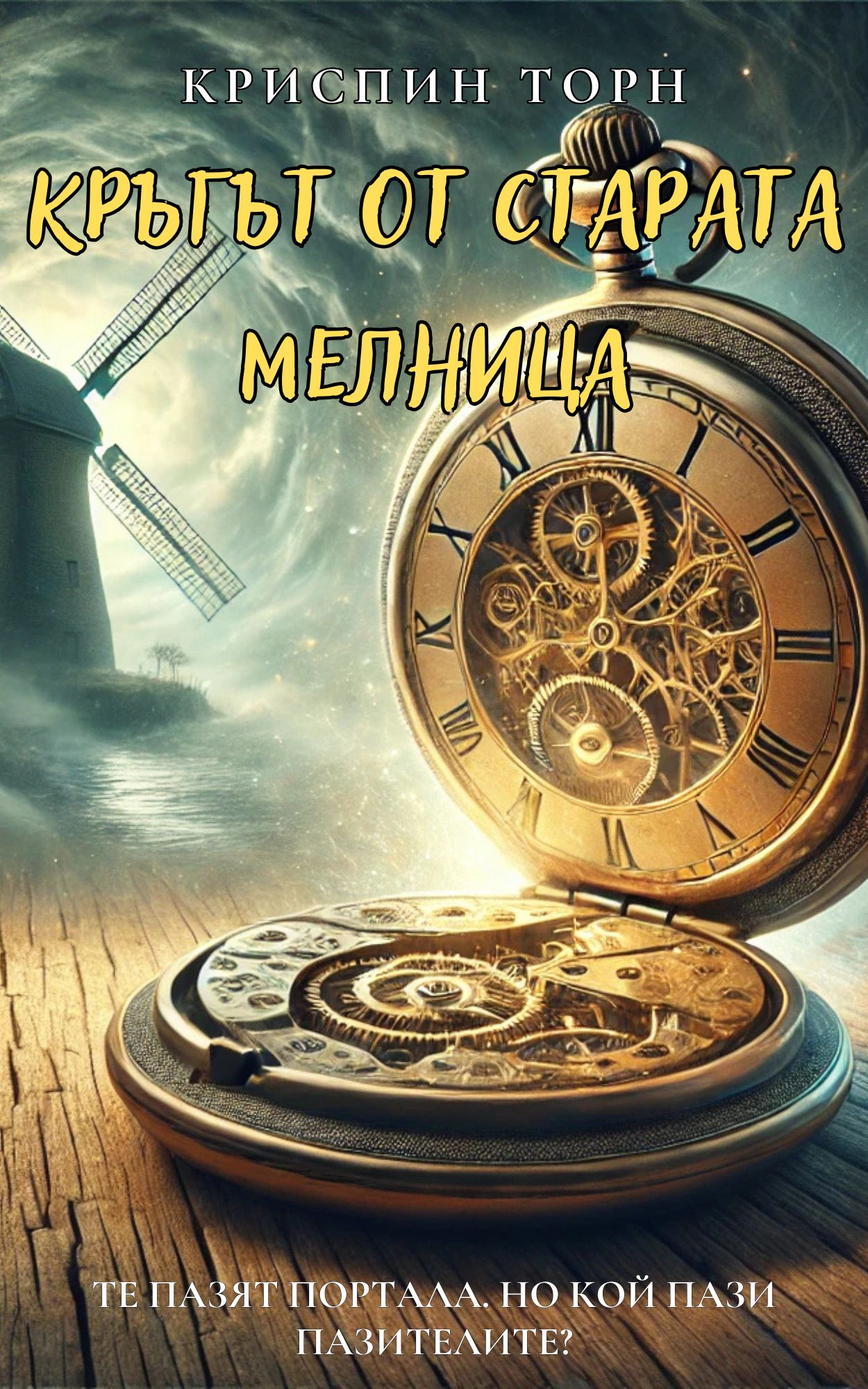
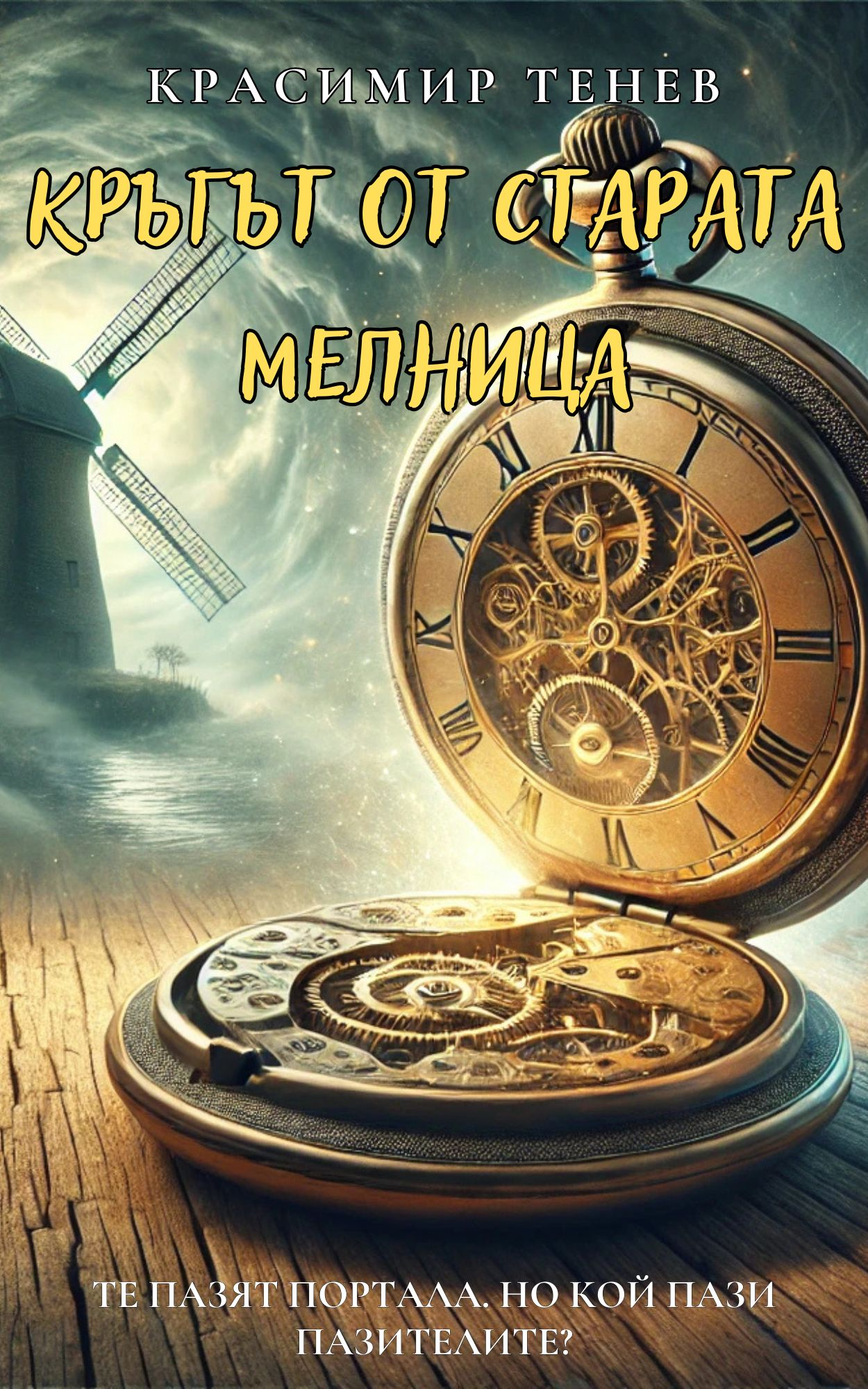
разни проби. Виж как излизат като две книги - Кръгът от старата мелница - бг и en.

Changed region(s): [[0.156, 0.031, 0.5616, 0.093], [0.5928, 0.031, 0.8424, 0.093]]

diff --git a/public/books/novels/bg/the-circle-of-the-old-mill/description.md b/public/books/novels/bg/the-circle-of-the-old-mill/description.md
@@ -1,50 +1,51 @@
-# *The Circle of the Old Mill*  
-*A Supernatural Thriller by Crispin Thorn*
+# **Кръгът от Старата мелница**  
+*Свръхестествен трилър*
 
-> *Some secrets were meant to stay buried. Especially in a town like Miller’s Creek.*
-
----
-
-## A Return That Was Never Meant to Be
-
-**Cale Madison** returns to the godforsaken town of **Miller’s Creek** with one goal:  
-**Sell his late father’s house and sever all ties with the past.**  
-But in a place where time seems to stand still, the past never truly dies.
-
-When he stumbles upon an **enigmatic key** and **cryptic notes** left behind by his father, Cale is pulled into a world whose existence he never suspected—a world of **secret societies**, **ancient rituals**, and an **old mill** hiding something far more sinister than memories.
-
-> It guards a **Portal**.
+> **Някои тайни е трябвало да останат погребани. Особено в градче като Милърс Крийк.**
 
 ---
 
-## A Town with a Secret Order
+## **Завръщане към миналото, което никога не е отминало**
 
-Beneath Miller’s Creek’s quiet façade lurks **The Circle of Guardians**, an ancient order protecting the boundary between **our world** and **The Beyond**.
+**Кейл Мадисън** се завръща в забравеното от бога градче **Милърс Крийк** с една-единствена цел:  
+да продаде къщата на покойния си баща и да скъса завинаги с миналото.
 
-But now:
-- **The Circle is fractured**
-- **The Seal is weakening**
-- And with the **winter solstice** approaching, something **ancient and malevolent** prepares to cross over.
+Но в място, в което **времето сякаш е спряло**, миналото никога не умира.
 
----
+Откривайки **тайнствен ключ** и **загадъчни бележки**, оставени от баща му, Кейл е въвлечен в свят, за чието съществуване не е и подозирал — свят на **тайни общества**, **древни ритуали** и една **стара мелница**, която пази нещо далеч по-опасно от спомени:
 
-## A Legacy He Never Wanted
-
-His father’s death was **no accident**.  
-And someone within The Circle is a **traitor**.
-
-Now, Cale must choose:
-- Flee from his **birthright**
-- Or embrace the role he was **born to play**— and stand against the darkness threatening to consume everything he loves.
+> **Тя пази портал.**
 
 ---
 
-## Why Read *The Circle of the Old Mill*?
+## **Орден от сенките**
 
-- A **gripping supernatural thriller** blending **small-town mystery** and **epic fantasy**
-- Perfect for fans of *Stranger Things* and *Twin Peaks*
-- Secrets, betrayals, ancient forces, and one man’s battle against fate
+Зад спокойната фасада на Милърс Крийк се крие **Кръгът от Пазители** – древен орден, който от поколения защитава границата между **нашия свят** и **Отвъдното**.
+
+Но сега:
+- **Кръгът е разбит**
+- **Печатът отслабва**
+- А със **зимното слънцестоене**, нещо **древно и зло** се готви да премине отвъд
 
 ---
 
-### *Dive into The Circle of the Old Mill—if you dare.*
+## **Наследството на един изгубен син**
+
+Смъртта на баща му не е била злополука.  
+И някой вътре в Кръга е **предател**.
+
+Кейл трябва да избере:
+- Да избяга от **наследството си**
+- Или да приеме **ролята, за която е роден** и да се изправи срещу **тъмнината**, заплашваща да погълне всичко, което обича
+
+---
+
+## **Защо да прочетеш „Кръгът от Старата мелница“?**
+
+- **Свръхестествен трилър**, смесващ **мистерията на малкия град** с **епично фентъзи**
+- Идеален за фенове на *Stranger Things* и *Туин Пийкс*
+- **Тайни**, **предателства**, **древни сили** и една лична битка срещу съдбата
+
+---
+
+### *Гмурнете се в „Кръгът от Старата мелница“ и открийте истината... ако смеете.*
